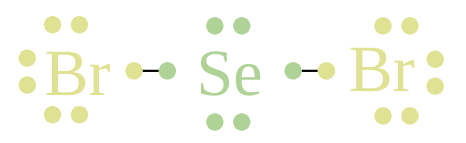
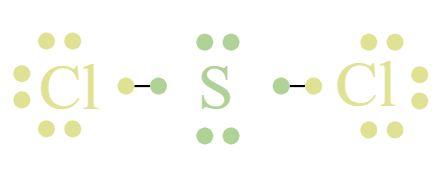
Update chemistry questions and related assets
Modify IMF.html to change a chemistry question from SeBr2 to SCl2, update button classes from "warm" and "cool" to "scli" and "sclc", and adjust index.html text. Also, update script.js to reflect these class name changes for button event handling.

Replit-Commit-Author: Agent
Replit-Commit-Session-Id: fa3414db-564c-4d47-8807-f9e82fbb048b
Replit-Commit-Checkpoint-Type: full_checkpoint
Replit-Commit-Screenshot-Url: https://storage.googleapis.com/screenshot-production-us-central1/19127db6-9bde-4a48-8fca-7eb6555e9a82/fa3414db-564c-4d47-8807-f9e82fbb048b/zGDgZGQ

diff --git a/IMF.html b/IMF.html
@@ -49,10 +49,10 @@
   <div class="five hidden"><text class="text">Correct.</text></div>
   <div class="six hidden"><text class="text">Incorrect.</text></div>
   <p></p>
-  <div class="seven hidden"><text class="text">Which is the correct depiction of SeBr<sub>2</sub>?</text>
+  <div class="seven hidden"><text class="text">Which is the correct depiction of SCl<sub>2</sub>?</text>
     <p></p>
-    <button class="warm"><img src="Website4.png"></button>
-    <button class="cool"><img src="Website3.png"></button>
+    <button class="scli"><img src="Website4.png"></button>
+    <button class="sclc"><img src="Website3.png"></button>
   </div>
   <p></p>
   <div class="eight hidden"><text class="text">Correct.</text></div>

diff --git a/script.js b/script.js
@@ -48,7 +48,7 @@ function doSomethingsix() {
    headersix.removeClass("hidden");
 }
 
-var buttonseven = $(".warm");
+var buttonseven = $(".scli");
 var headerseven = $(".nine");
 buttonseven.on("click", doSomethingseven);
 
@@ -56,7 +56,7 @@ function doSomethingseven() {
    headerseven.removeClass("hidden");
 }
 
-var buttoneight = $(".cool");
+var buttoneight = $(".sclc");
 var headereight = $(".eight");
 buttoneight.on("click", doSomethingeight);
 
@@ -64,7 +64,7 @@ function doSomethingeight() {
    headereight.removeClass("hidden");
 }
 
-var buttonnine = $(".cool");
+var buttonnine = $(".sclc");
 var headernine = $(".ten");
 buttonnine.on("click", doSomethingnine);
 

diff --git a/index.html b/index.html
@@ -18,5 +18,5 @@
 <body>
   <div class="nav"><a href="index.html">Home</a><a href="IMF.html">Lewis Dot Structures + Polarity</a><a href="NTL.html">Newton's Third Law</a></div>
   <h2>STEM To Success</h2>
-  <p>STEM To Success can provide you with practice problems that relate directly to Metea Valley classes' curriculums help you study for upcoming quizzes and tests.</p>
+  <p>STEM To Success can provide you with practice problems that relate directly to Metea Valley curriculums and help you study for upcoming quizzes and tests.</p>
 </html>
